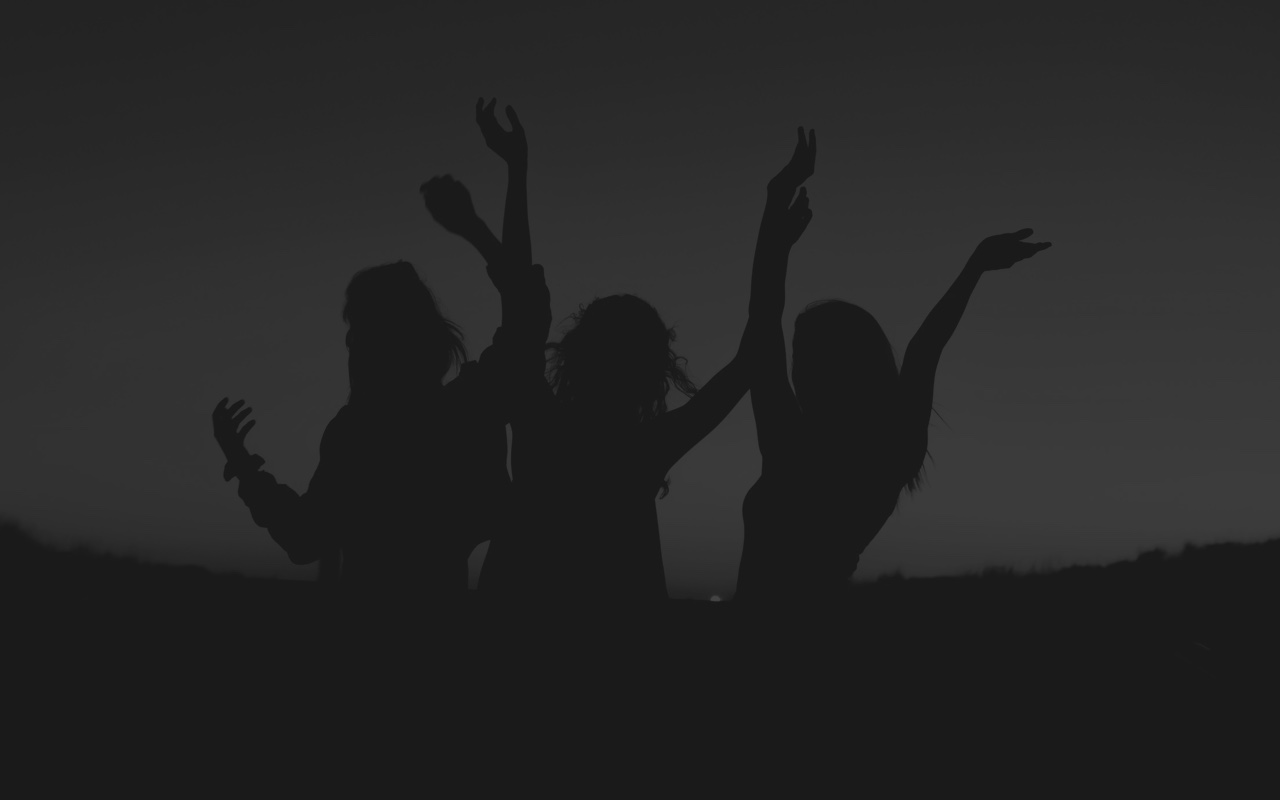
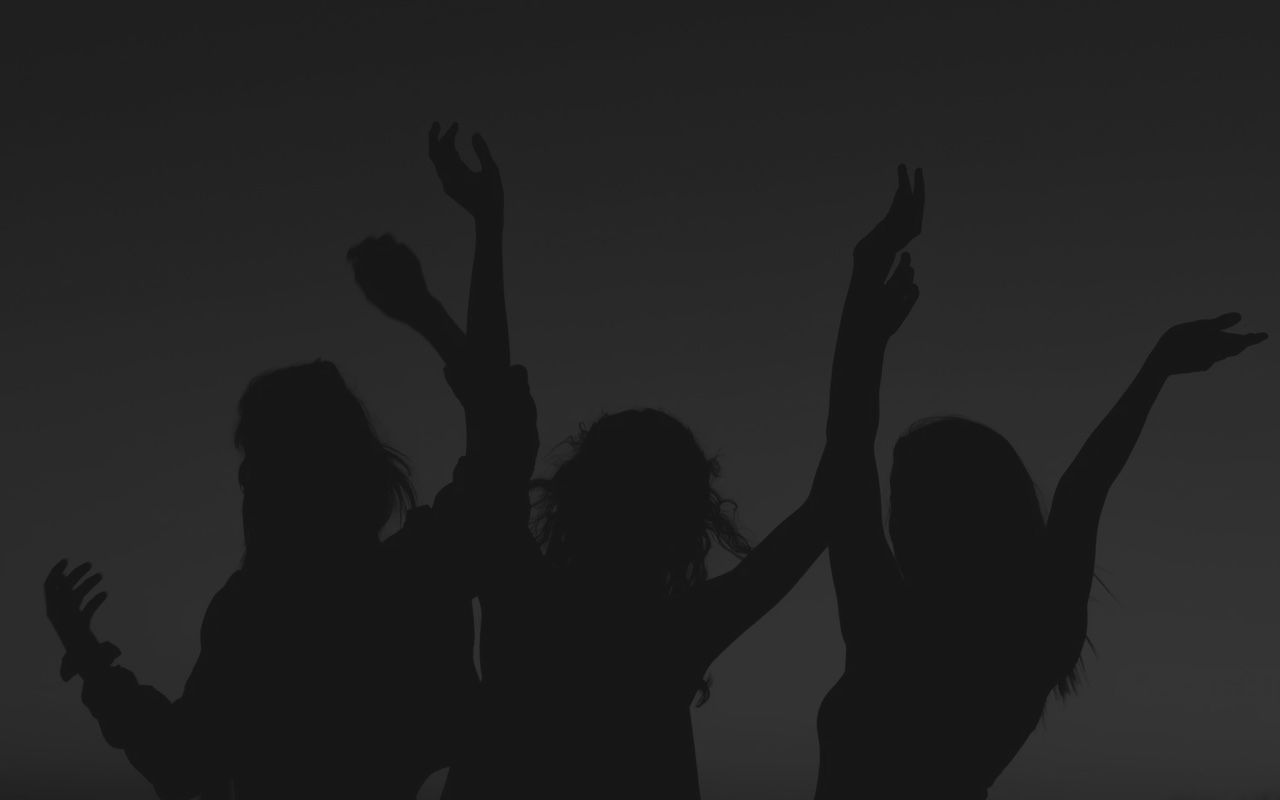
Update background

diff --git a/components/AppPoster.vue b/components/AppPoster.vue
@@ -11,7 +11,7 @@ export default {
   props: {
     poster: {
       type: String,
-      default: 'telemet-hands'
+      default: 'telemet-balfur3'
     }
   },
   computed: {

diff --git a/content/t/unity.md b/content/t/unity.md
@@ -1,7 +1,7 @@
 ---
 title: האיחוד 2.0
 description: כולנו מתאגדים ונערכים לשחרור העם
-img: img/telemet-hands.jpg
+img: img/telemet-blafur3.jpg
 alt: המערכה למען שחרור העם
 author:
   slug: tal-amitay
